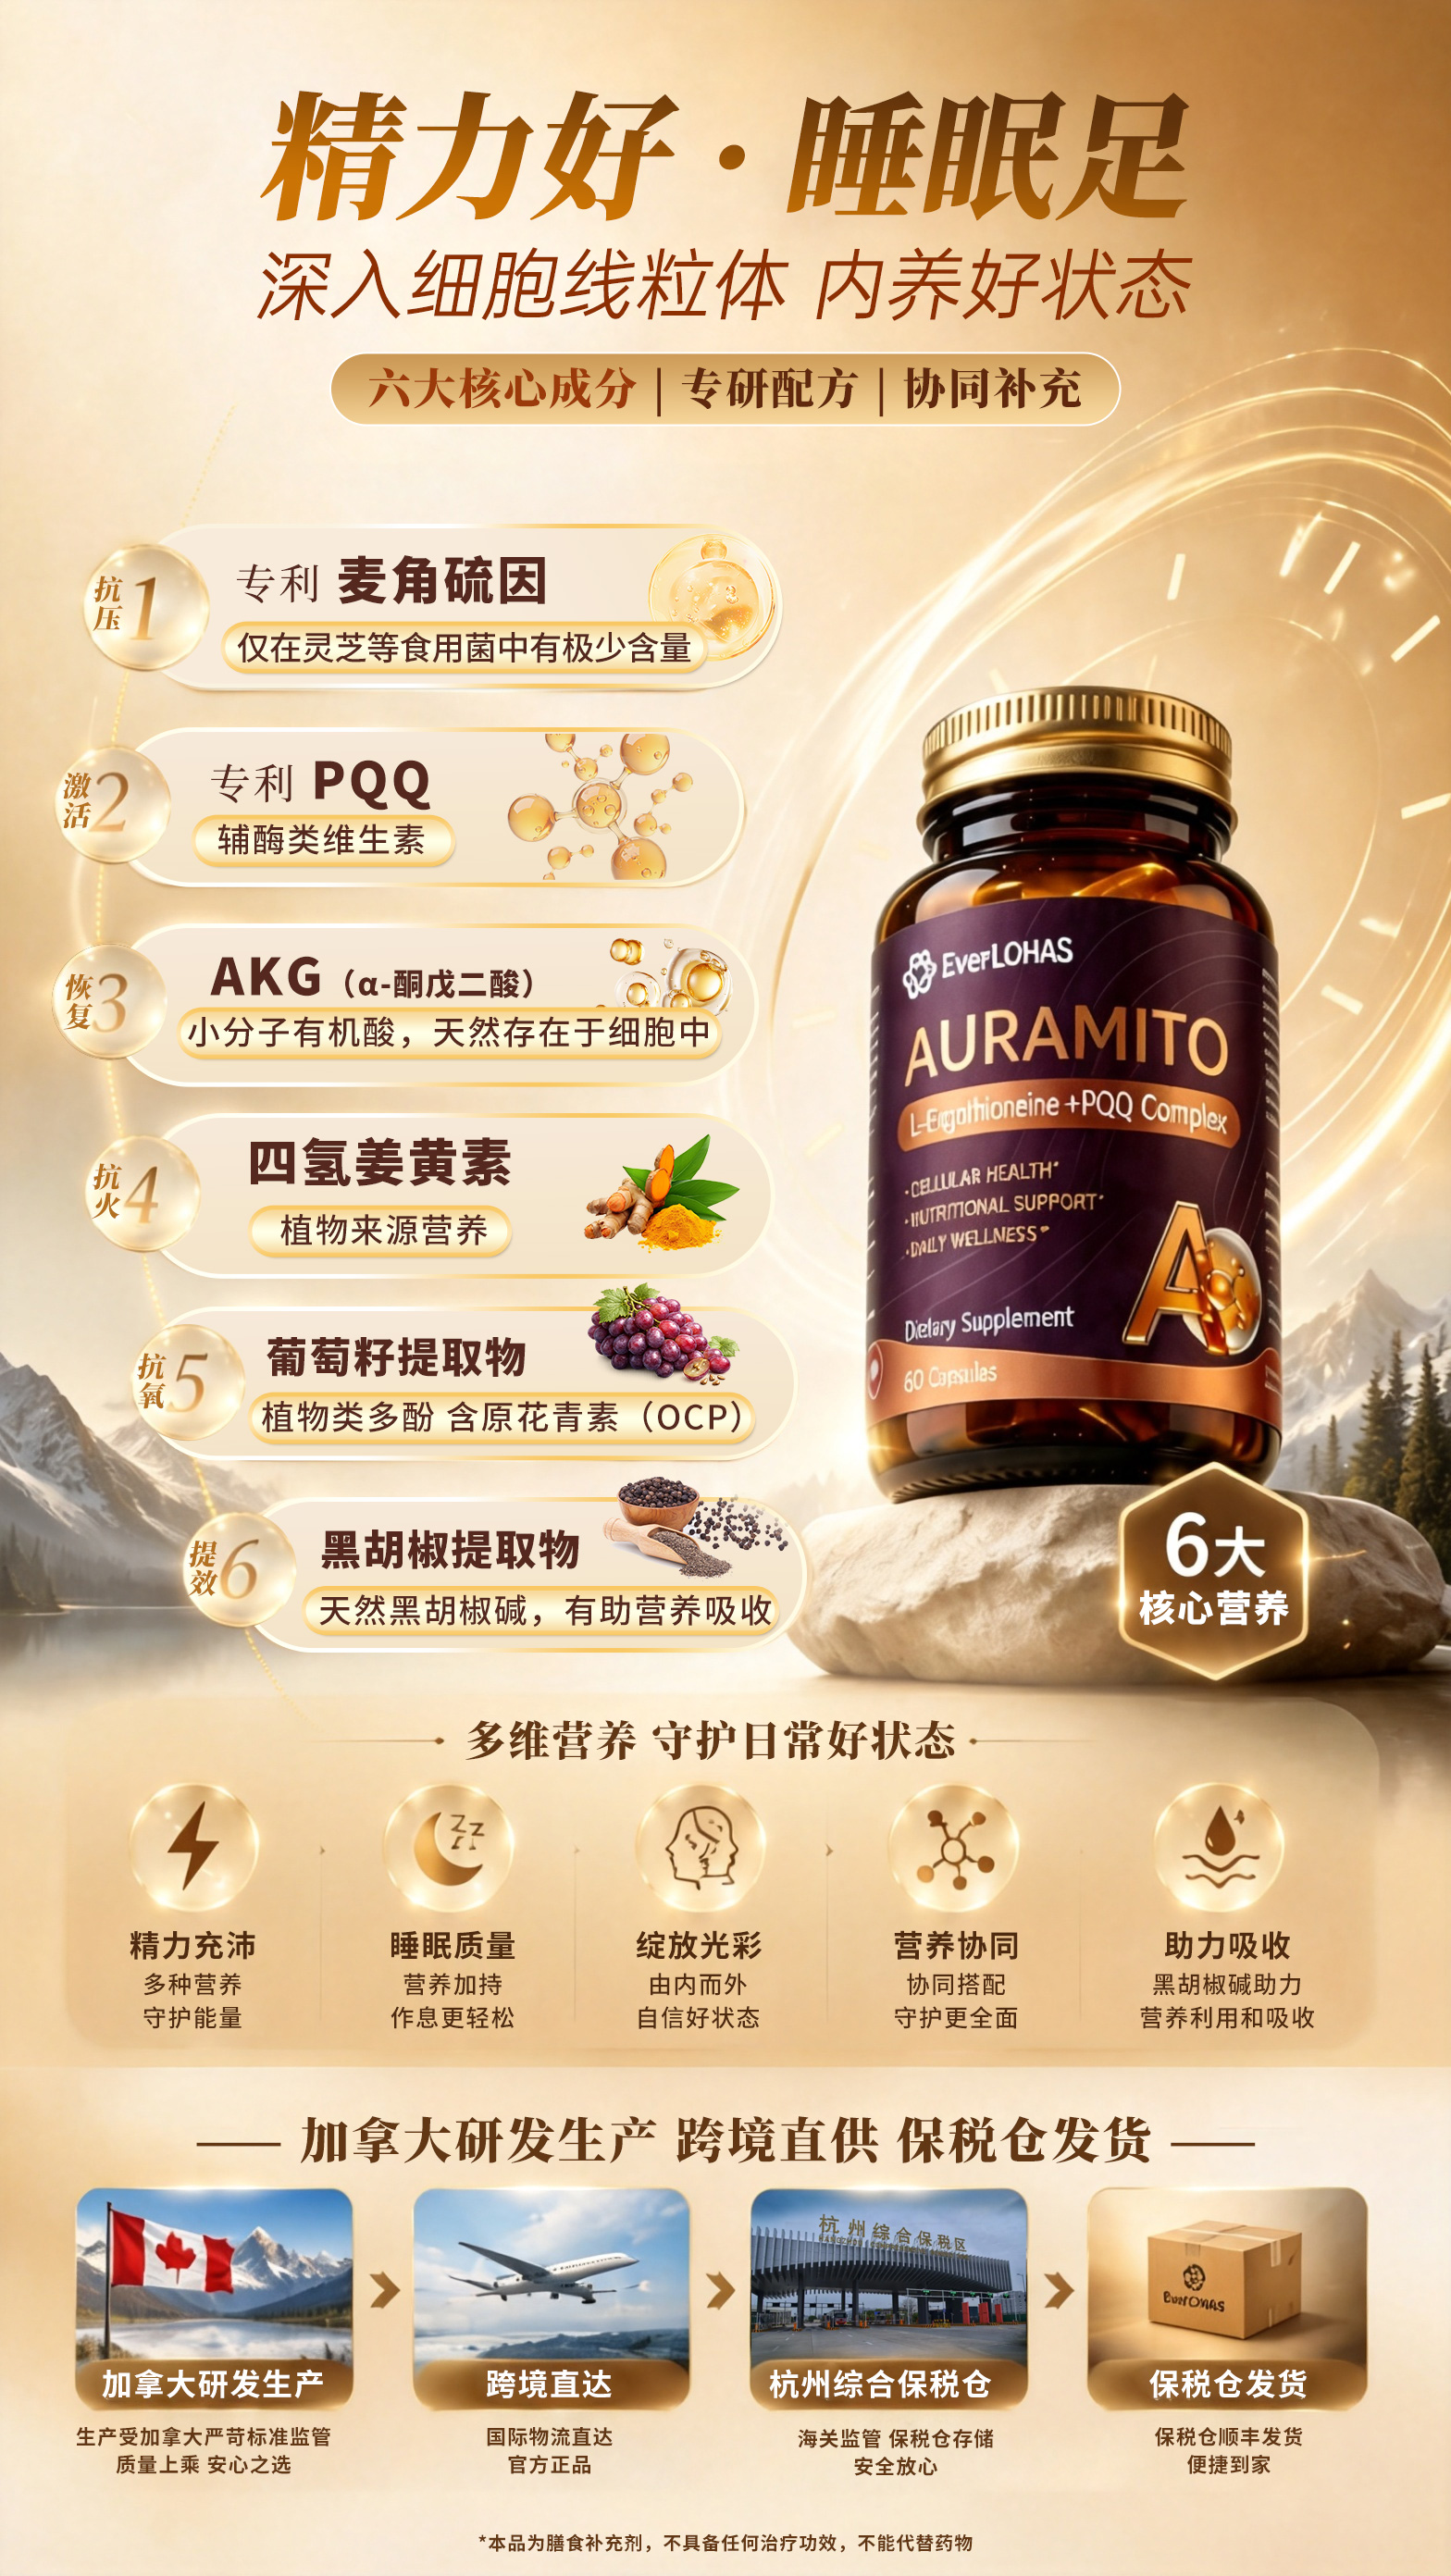
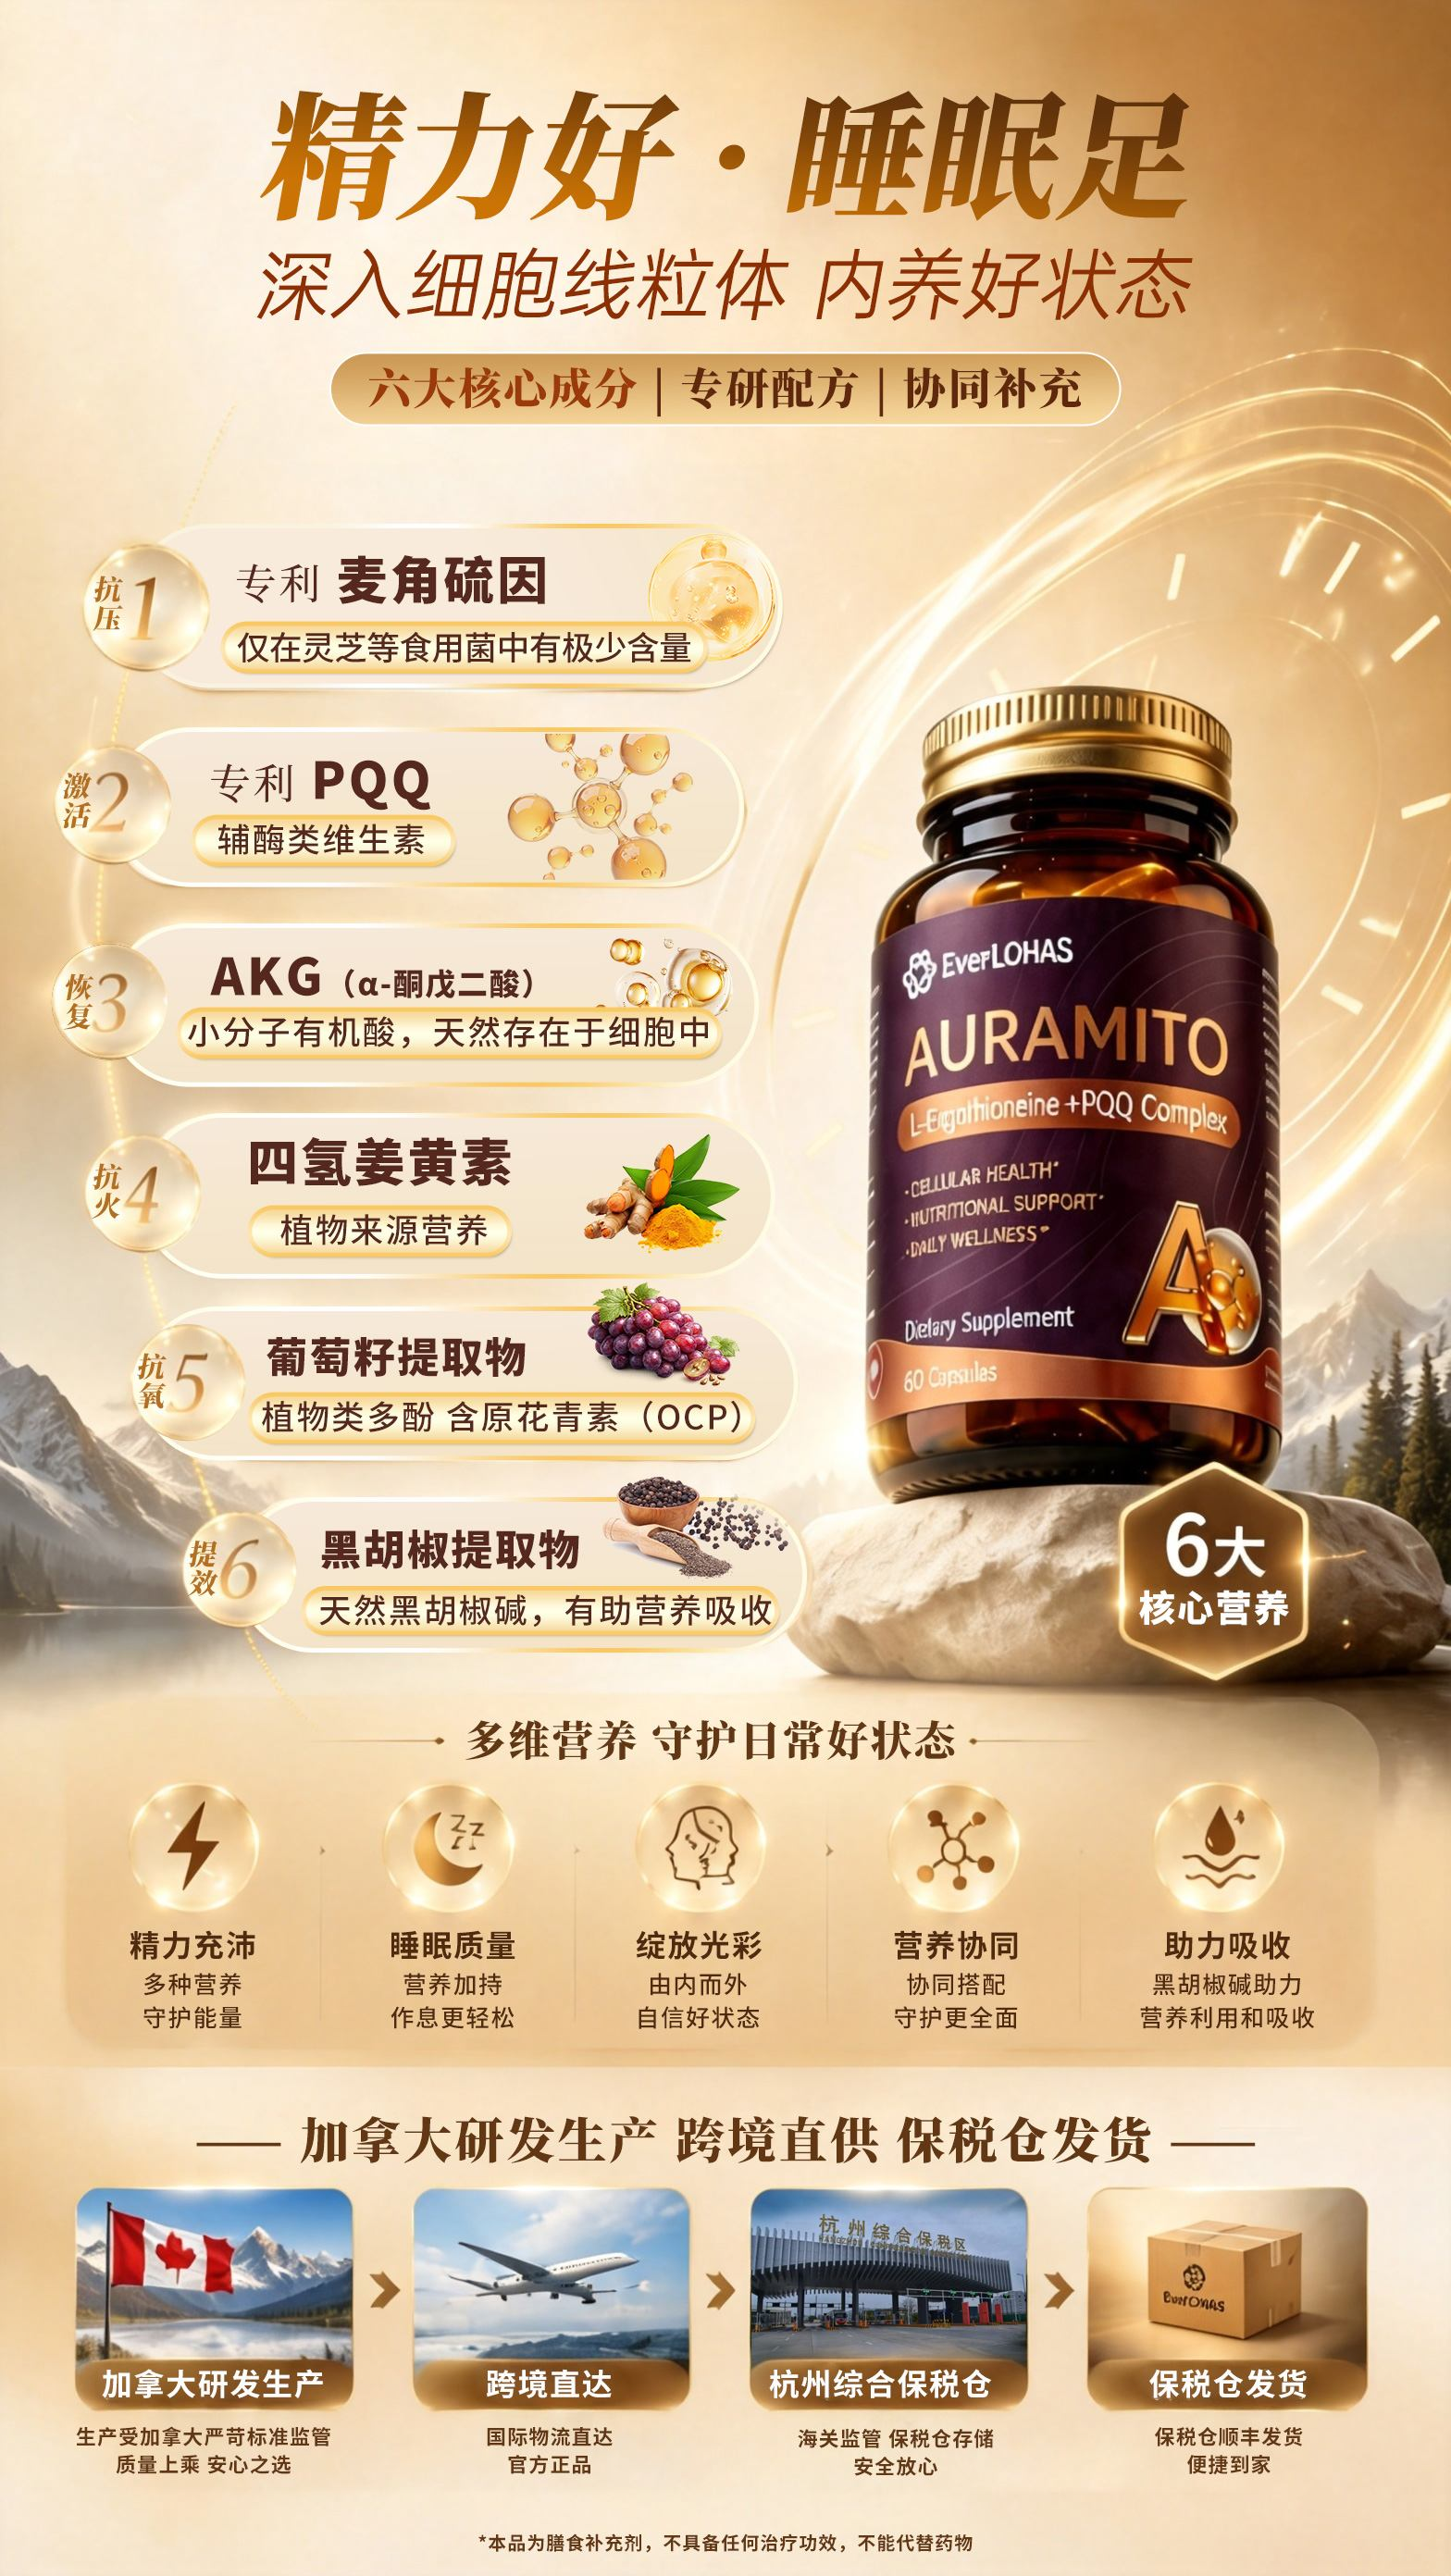
Add files via upload
V3

diff --git a/app.js b/app.js
@@ -376,22 +376,33 @@ function renderInsight(r){
   wrap.innerHTML = "";
   const dims = Object.keys(DIM_META).map(k => ({ k, score: r[k].normalized }));
   // 阈值统一为 70：< 70 视为需要重点关注（薄弱），>= 70 视为合格（不再细分轻度）
-  const weak = dims.filter(d => d.score < 70).sort((a,b)=>a.score-b.score);
-  const allGood = dims.every(d => d.score >= 70);
+  const weak = dims.filter(d => d.score < 85).sort((a,b)=>a.score-b.score);
+  const allGood = dims.every(d => d.score >= 85);
 
   if (allGood) {
     wrap.innerHTML = `
       <div class="insight">
-        <h3>健康优等生 · 卓越表现</h3>
-        <p>测验显示，您在各个维度都展现出了极高的健康素养与自律能力。您目前的细胞活力、代谢水平和日常精力都处于令人羡慕的巅峰状态。</p>
+        <h3>综合评估：健康基础良好</h3>
+        <p>您的测评结果显示，目前在精力状态、代谢水平、生活自律性等方面均表现不错，细胞层面的损耗速度低于同龄人平均水平。这与您长期保持的良好生活习惯密不可分。</p>
+        
         <ul>
-          <li>拥有充沛的日常精力与良好的情绪稳定性</li>
-          <li>基础代谢与皮肤状态维持在优良水平</li>
-          <li>具备极强的自我健康管理意识与行动力</li>
+          <li>日常精力与情绪状态相对稳定</li>
+          <li>代谢与皮肤状态维持在较好水平</li>
+          <li>具备较强的健康管理意识与行动力</li>
         </ul>
-        <div class="risk">自然老化趋势提示：真正的顶级抗衰，是在巅峰时期「锁住」青春。虽然您的生活方式无可挑剔，但随着年龄增长，人体内源性的细胞能量（线粒体功能）与天然抗氧化剂仍会面临不可逆的自然流失。</div>
-        <p style="margin-top:10px"><b>进阶保养与维持建议：</b>针对您目前的高质量状态，您不需要繁琐的瓶瓶罐罐来进行修补，您需要的是一份维持巅峰状态的青春保险。</p>
-        <p>我们建议您在日常优秀的习惯之外，引入含有 <b>麦角硫因、PQQ、AKG、葡萄籽提取物和姜黄素等营养素</b> 的高阶复方，每天极简一粒，为您原本就优秀的细胞代谢额外提供一层深层保护盾。</p>
+
+        <div class="risk">
+          <b>需要客观看待的规律是：</b>细胞层面的衰老并非只在“状态变差”时才发生。人体内线粒体的数量与功能大约从30岁开始逐年下降，内源性抗氧化系统（如谷胱甘肽、SOD）的合成能力也会随年龄增长而递减。这意味着，即使生活方式无可挑剔，细胞也在经历持续的低度损耗——只是这种损耗暂时还没有越过“感受阈值”，让你明显察觉。
+        </div>
+
+        <p style="margin-top:12px"><b>这个阶段的策略建议：</b></p>
+        <p>目前你的基础很好，不需要复杂的“修复型”方案，但如果希望在下一个5-10年继续保持当前优势，可以提前关注一些针对细胞层面的前沿营养素。例如：</p>
+
+        <ul style="list-style:none;padding-left:0;">
+          <li>🔬 <b>线粒体支持：</b>PQQ 被研究发现可促进线粒体生物合成，AKG 参与三羧酸循环的能量代谢</li>
+          <li>🛡️ <b>细胞保护：</b>麦角硫因可进入细胞核与线粒体发挥靶向抗氧化作用，葡萄籽提取物富含原花青素</li>
+          <li>🔥 <b>炎性衰老预防：</b>姜黄素在多项研究中显示出对慢性低度炎症的调节潜力</li>
+        </ul>
       </div>
     `;
     bindNutrientCarousels(wrap);